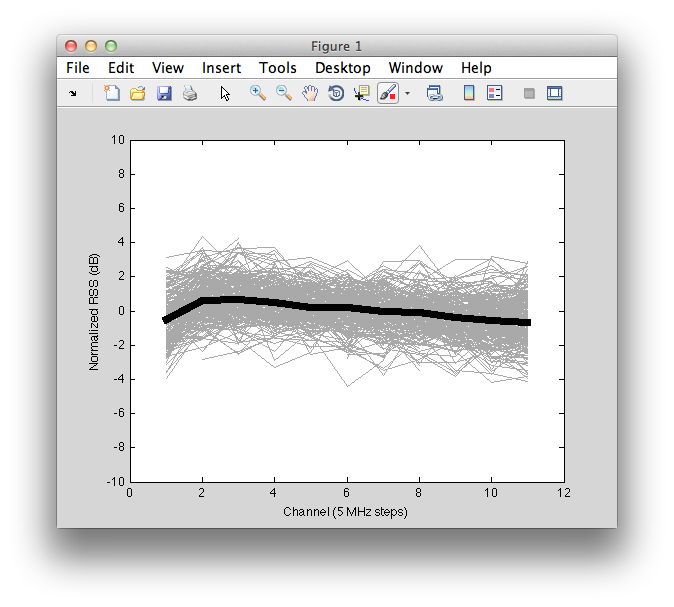
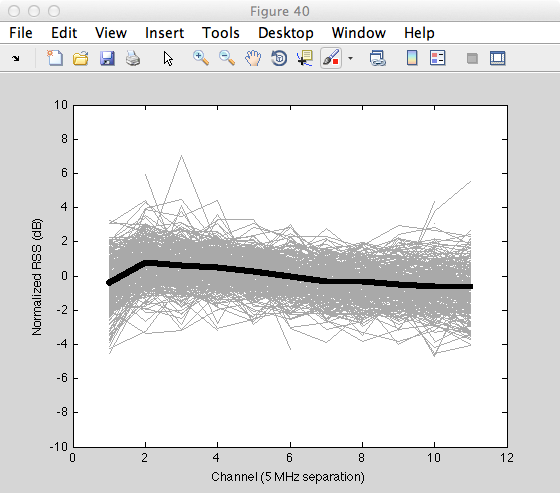
esnr_eval: new figures and accompanying text

diff --git a/esnr_eval_chansel.tex b/esnr_eval_chansel.tex
@@ -133,7 +133,7 @@ To evaluate the three channel selection algorithms I presented in the previous s
 	\caption{\label{fig:chan_sel_ratio_opt}Channel selection algorithm performance relative to an optimal algorithm.}
 \end{figure}
 
-In this figure, Effective SNR chooses an optimal channel for 121 links (60\%), whereas RSS is optimal for only 73 links (36\%). The Effective SNR-based algorithm is within 90\% of optimal for 161 links (84\%), 80\% for 181 links (90\%), and 70\% for 191 links (95\%). In contrast, maximizing RSS only gets within 90\% of optimal for 123 links (61\%).
+In this figure, Effective SNR chooses an optimal channel for 121 links (60\%), whereas RSS is optimal for only 73 links (36\%). The Effective SNR-based algorithm is within 90\% of optimal for 168 links (84\%), 80\% for 181 links (90\%), and 70\% for 191 links (95\%). In contrast, maximizing RSS only gets within 90\% of optimal for 123 links (61\%).
 
 \begin{figure}[htp]
 	\centering
@@ -160,17 +160,17 @@ In conclusion, these results shows that both Effective SNR- and RSS-based channe
 
 \begin{figure}[htp]
 	\centering
-	\includegraphics[width=\textwidth]{figures/esnr/rssi_vs_freq_24.png}
-	\caption{\label{fig:rssi_vs_freq_24}RSS versus 2.4\GHz channel for 249 links. Solid line shows the median for each channel.}
+	\includegraphics[width=0.6\textwidth]{figures/esnr/rssi_vs_freq_24.png}
+	\caption{\label{fig:rssi_vs_freq_24}Normalized RSS versus 2.4\GHz channel for 349 links. Solid line shows the median for each channel.}
 \end{figure}
 \begin{figure}[htp]
 	\centering
-	\includegraphics[width=\textwidth]{figures/esnr/rssi_vs_freq_5.png}
-	\caption{\label{fig:rssi_vs_freq_5}RSS versus 5\GHz channel for 163 links. Solid line shows the median for each channel.}
+	\includegraphics[width=0.6\textwidth]{figures/esnr/rssi_vs_freq_5.png}
+	\caption{\label{fig:rssi_vs_freq_5}Normalized RSS versus 5\GHz channel for 253 links. Solid line shows the median for each channel.}
 \end{figure}
 \begin{figure}[htp]
 	\centering
-	\includegraphics[width=\textwidth]{figures/esnr/rssi_freq_dev.png}
+	\includegraphics[width=0.6\textwidth]{figures/esnr/rssi_freq_dev.png}
 	\caption{\label{fig:rssi_freq_dev}Standard deviation and max-min spread of RSS across channels within the same band.}
 \end{figure}
 
